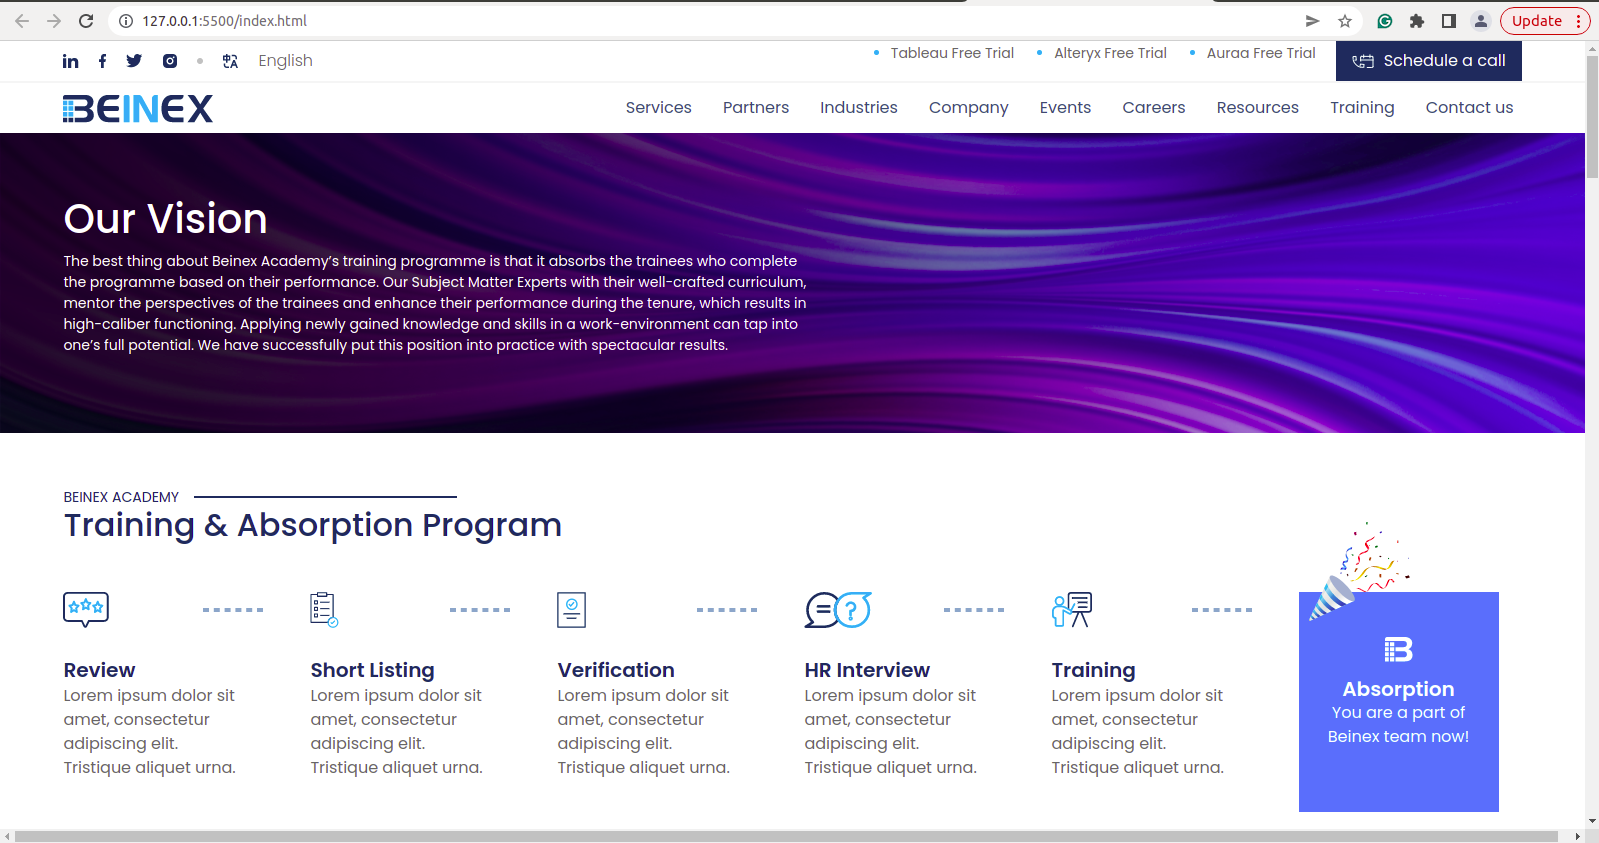
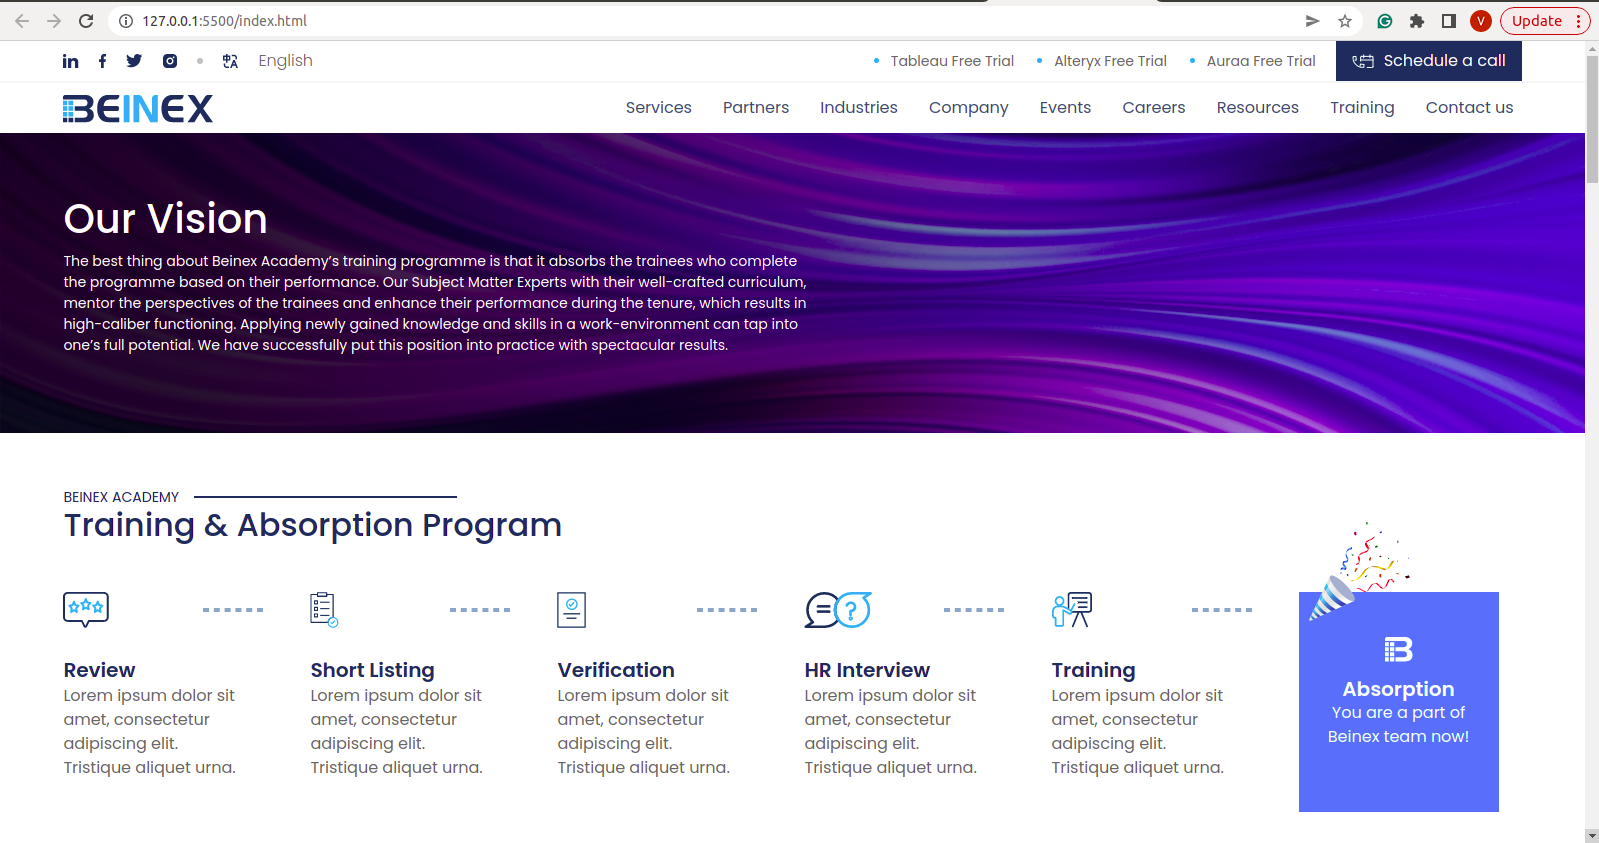
Fixed header margin

Changed region(s): [[0.0, 0.987, 0.9806, 1.0], [0.5516, 0.0617, 0.8274, 0.0925], [0.9193, 0.0, 0.95, 0.0308]]

diff --git a/assets/scss/organisums/_header.scss b/assets/scss/organisums/_header.scss
@@ -32,7 +32,7 @@
         justify-content: flex-end;
         align-items: center;
         gap: 20px;
-
+        margin-bottom: 0;
         &__navlist {
             display: flex;
             gap: 40px;
